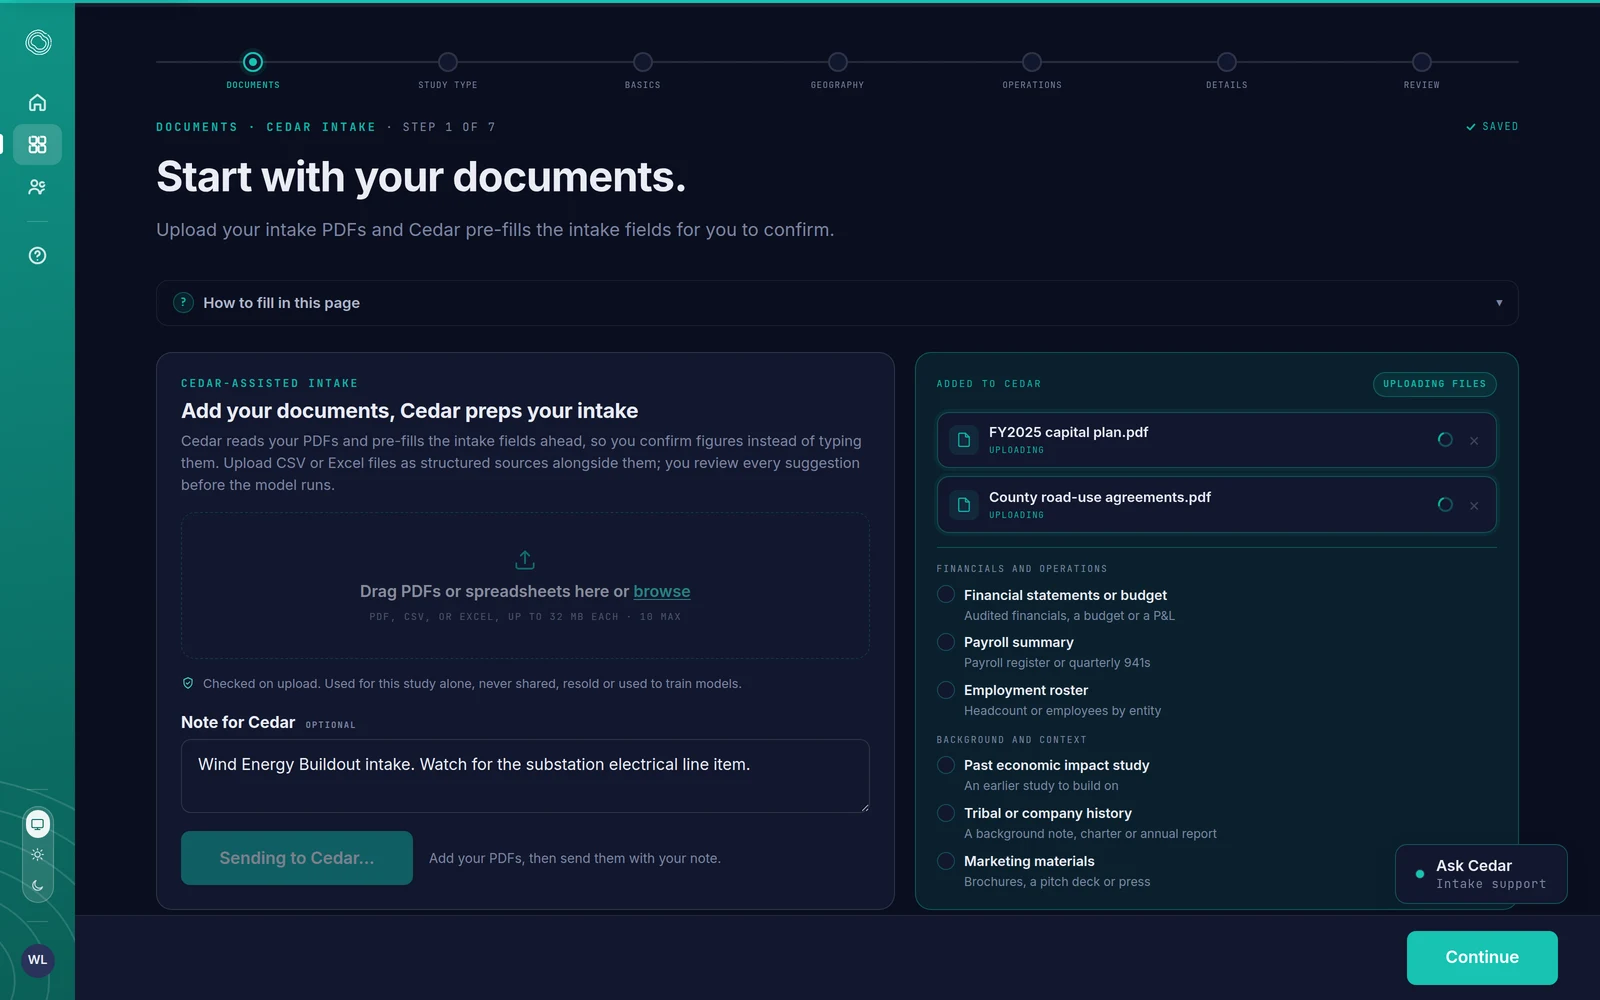
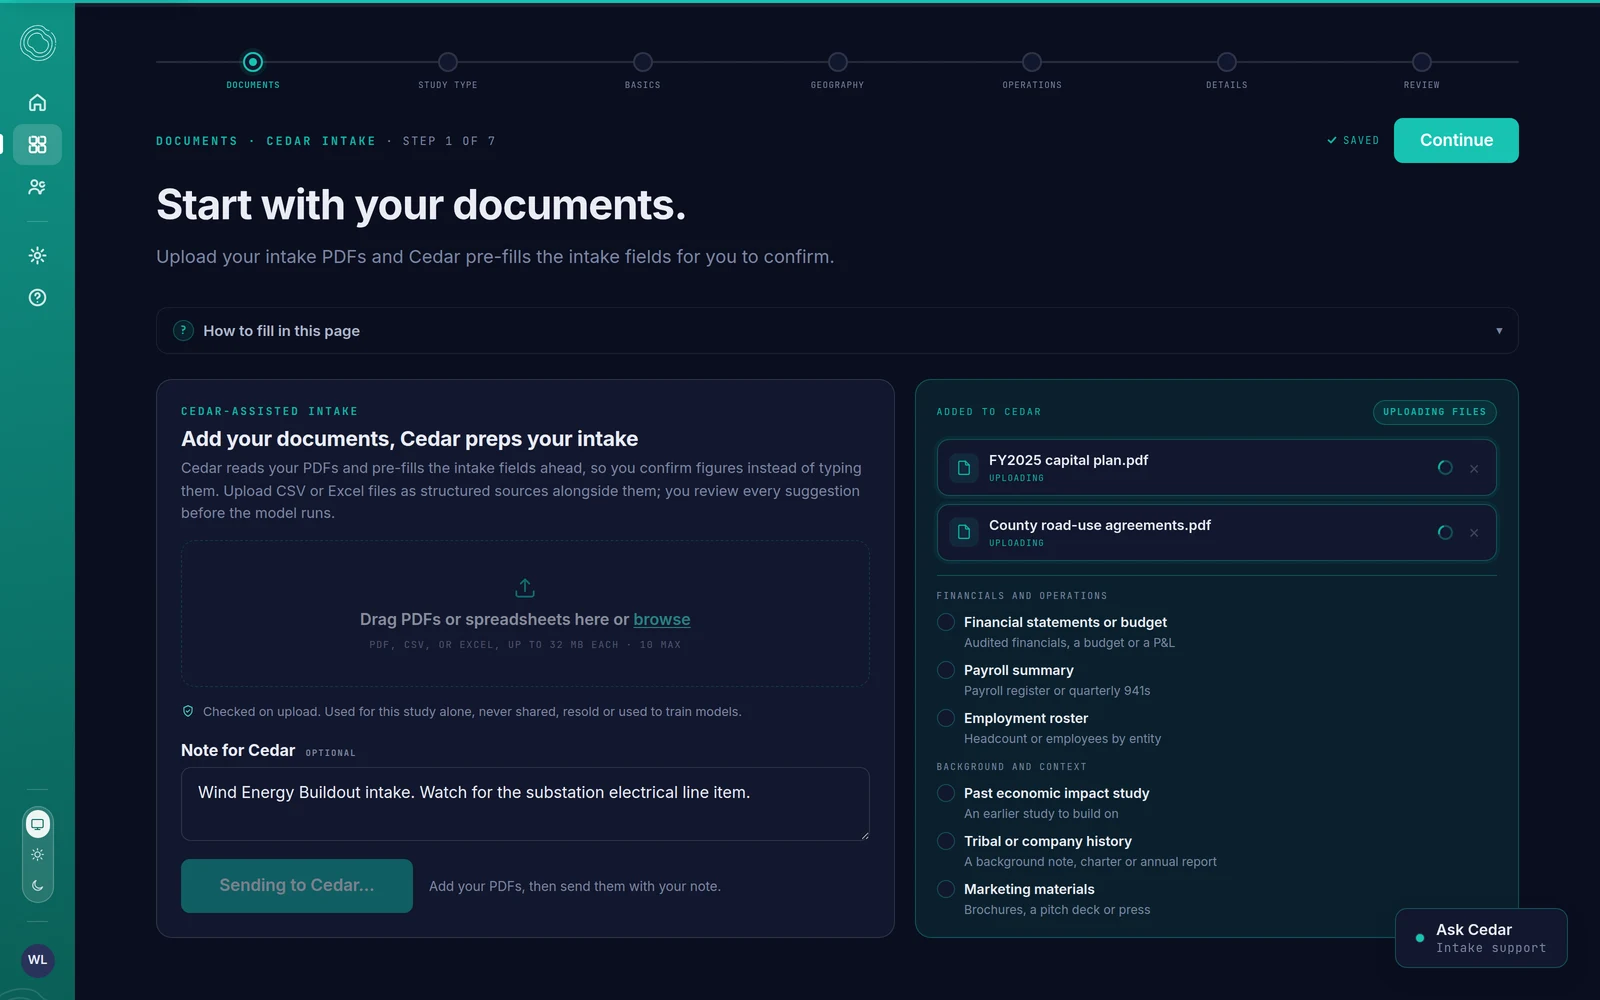
Diagrams argue their point; wizard screenshots show the top-nav fix
The three Cedar diagrams now carry the content, not just the shape.
Each Lumecon pipeline stage says what Cedar does there (read, gaps
flagged; inputs structured; numbers explained; drafts per audience)
while the legacy pipeline stays bare and its chatbot is annotated
"answers after the fact", so the two architectures argue for
themselves. The organization diagram names what actually carries
between projects: terminology, geographies and reporting conventions
flow through as chips on their way into Cedar. The improvement loop
states each stage's mechanism (AI reads more formats; classified and
validated; more evidence in the baseline; sharper, more current
estimates).

The upload and entities captures are refreshed from the app after the
wizard moved Back and Continue to the top of the page, where the
docked Cedar panel can never cover them.

Claude-Session: https://claude.ai/code/session_01CSz1H1JLzB7E78Jo7jEreX

diff --git a/src/styles/cedar-page.css b/src/styles/cedar-page.css
@@ -215,3 +215,27 @@
     display: none;
   }
 }
+
+/* Content layer for the diagrams: each stage says what happens there. */
+.dg2-sub text {
+  font-family: var(--font-sans, inherit);
+  font-size: 9.5px;
+  fill: var(--ink-3);
+  text-anchor: middle;
+}
+.dg2-sub .dg2-sub--muted {
+  fill: var(--ink-4);
+}
+.dg-box .dg-box--chip {
+  fill: var(--accent-soft, rgba(15, 181, 165, 0.08));
+  stroke: var(--accent-text);
+  stroke-opacity: 0.45;
+}
+.dg2-chiplbl text {
+  font-family: var(--font-mono);
+  font-size: 8px;
+  font-weight: 600;
+  letter-spacing: 0.1em;
+  fill: var(--accent-text);
+  text-anchor: middle;
+}
